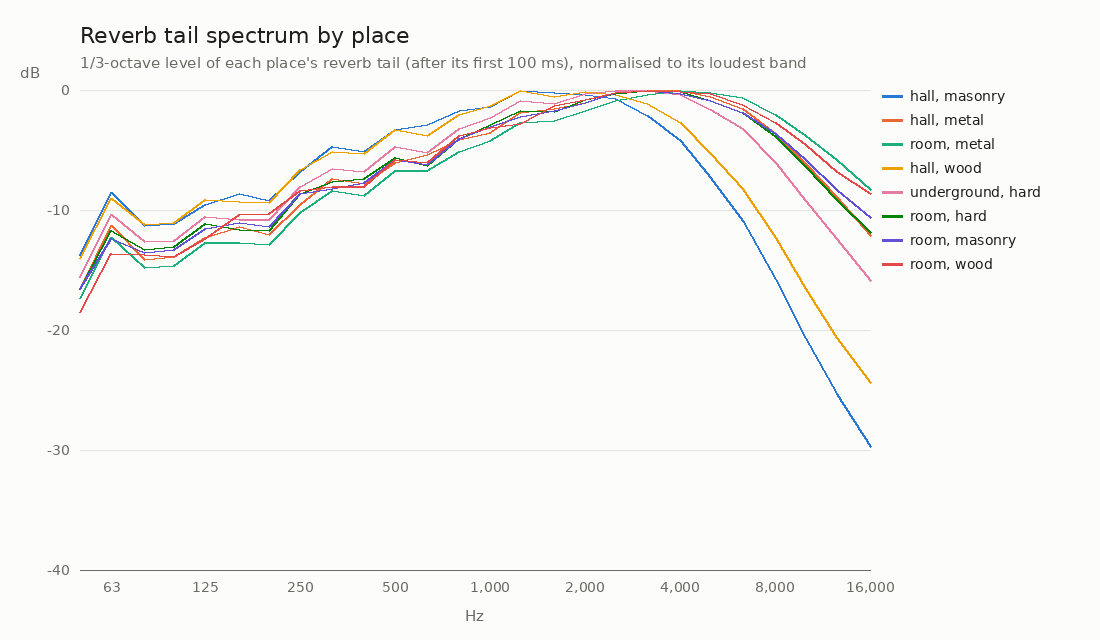
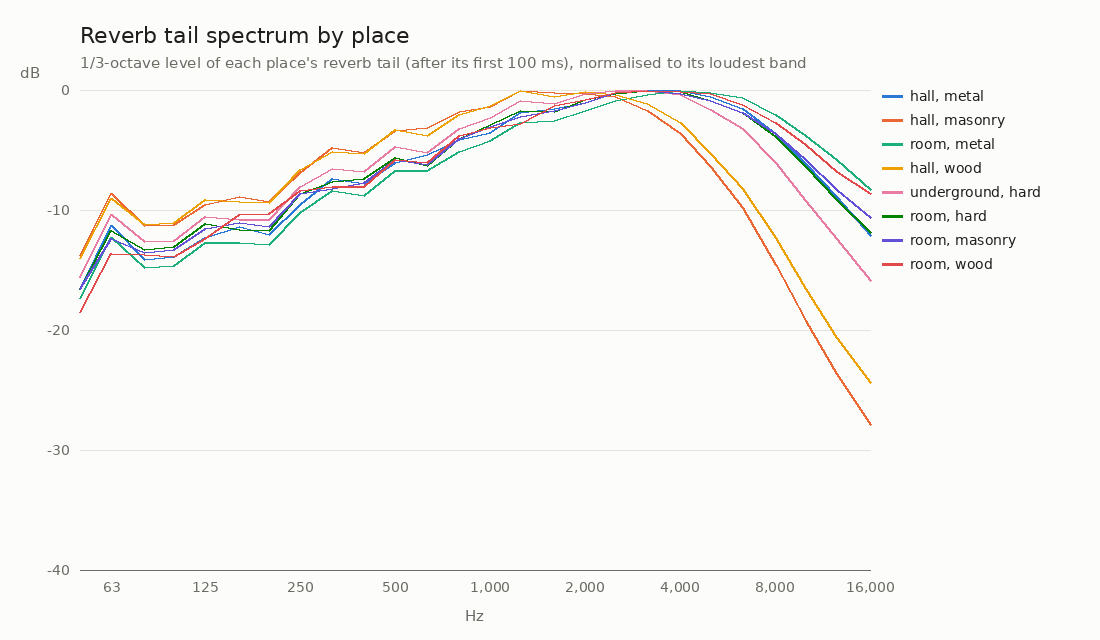
Acoustics: halls by their mean size, and the acoustics section in AUDIO.md
Above ground the long rays are ones that escaped through a window and
met the next building, so a shop was taken for a 3.5 s hall; only
underground does the longest way round count now. AUDIO.md documents
the probe, the reverb, occlusion, rain under roofs and the audit's
measurements, with a table of every kind of place on the three maps.

Claude-Session: https://claude.ai/code/session_01NrGcFyjBPLDhEAAYQKWyh8

diff --git a/src/acoustics.rs b/src/acoustics.rs
@@ -126,10 +126,12 @@ impl Space {
             Surface::Soft => (0.45, 0.8),
         };
         let per_m = 0.04 / absorption;
-        // Enclosed, a sound goes on down the corridor and back: the
-        // longest way round counts as well as the mean.
+        // Underground, a sound goes on down the corridor and back: the
+        // longest way round counts as well as the mean. (Above ground the
+        // long rays are ones that left through a window and met the next
+        // building.)
         let path = match self.kind {
-            SpaceKind::Hall | SpaceKind::Underground => self.size.max(0.5 * self.length),
+            SpaceKind::Underground => self.size.max(0.5 * self.length),
             _ => self.size,
         };
         let rt60 = (path * per_m * (0.4 + 0.6 * self.enclosed)).clamp(0.3, 3.5);
@@ -269,7 +271,7 @@ pub fn probe(
     let kind = if underground {
         SpaceKind::Underground
     } else if roof.is_some() && enclosed >= 0.5 {
-        if size > 8.0 || length > 25.0 {
+        if size > 8.0 {
             SpaceKind::Hall
         } else {
             SpaceKind::Room

diff --git a/docs/AUDIO.md b/docs/AUDIO.md
@@ -274,6 +274,99 @@ goes past 0.6. Index controllers barely register under about 0.1 or
 frame merge (strongest, longest), because the runtime plays only the
 last one it is given: a shot was being cut short by its own casing.
 
+## Acoustics
+
+Spaces sound like their size (`src/acoustics.rs`).
+
+**The space.** A few times a second, seventeen rays go out from your
+head: twelve round the horizon, four raised 40 degrees, one straight
+up. What they meet, and where, gives:
+- how enclosed the place is: the share of rays that meet something
+  within 40 m;
+- its size: the mean distance to what they meet; misses are openings;
+- its longest way round: a corridor's length, a hall's far end;
+- what its surfaces are made of, by majority: metal, bare concrete or
+  rock, plaster and brick, wood, soft (canvas, bark, earth);
+- the roof overhead.
+
+That makes it open, sheltered (an alley, a yard), a room, a hall, or
+underground (the dark sites).
+
+**The reverb.** One reverb bus (bevy_seedling's Freeverb, through its
+`effects` feature). Every placed sound sends to it at full level,
+except recordings with their own space baked in: the far-off shot's
+echo, the siren and the Surge's cracks send 30%. The space sets the
+bus:
+- **Decay** follows Sabine's formula. For a box the mean free path is
+  4V/S, so RT60 is about 0.04 × path / absorption. Absorption counts a
+  room's contents, not only its walls: metal 0.05, bare concrete 0.07,
+  plaster and brick 0.15, wood 0.2, soft 0.45. Open sides shorten it,
+  and tunnels count their longest way round. Above ground, long rays
+  have usually left through a window, so they don't count.
+- **Brightness:** metal rings, plaster and wood dull it.
+- **Wet level:** off in the open and in a forest (trunks and earth
+  don't echo), -24 to -18 dB sheltered, -16 to -12 in a room, -13 to
+  -9 in a hall, -11 to -8 underground.
+
+Changes ease over half a second, so walking through a door is a
+crossfade.
+
+| Place (2026-10, three maps) | Places | RT60 | Wet | A rifle shot's direct over reverb |
+| --- | --- | --- | --- | --- |
+| Field, forest | 10 | (dry) | off | dry |
+| Timber shed or cabin | 18 | 0.5 s (Freeverb's shortest) | -12 dB | +7 dB |
+| House, shop (plaster, brick) | 27 | 0.8 s | -12 dB | +6 dB |
+| Concrete room | 6 | 1.2 s | -12 dB | +5 dB |
+| Barn (wood hall) | 2 | 1.9 s | -9 dB | 0 dB |
+| Tin shed, depot (metal) | 9 | 2.3-3.5 s | -12 to -10 dB | +2 to -2 dB |
+| Factory hall (brick, Cinder Works) | 2 | 3.1 s | -11 dB | 0 dB |
+| Underground | 31 | 1.8 s | -8 dB | -1 dB |
+
+**Occlusion.** Each placed sound is checked as it starts, and loops
+every quarter second (at most 24 checks a frame), by the rule robots
+hear by (`robots::senses`):
+- **Through a wall or over a hill:** a sound carries `OCCLUDED`
+  (0.45) of its reach. Under inverse-distance falloff that is 6.9 dB
+  quieter, and it's muffled to 700 Hz.
+- **Round the edge of an open doorway** (both legs clear): 3 dB
+  quieter, muffled to 3 kHz.
+- **The ray test:** a path counts as blocked only if both the line from
+  just above the source and the line `HEARD_OVER` (1.2 m) above it are
+  cut. Robots test only the raised line, which through a doorway runs
+  into the lintel; they've been told.
+
+So a walker's footfall behind a wall is still heard, just duller, about
+where a robot would hear yours.
+
+**Rain under a roof.** Rain follows where you stand:
+- **In the open:** all of it.
+- **Under a roof:** quieter and duller. Tin and wood are 12-14 dB down
+  and below about 1 kHz; canvas loses less.
+- **Under a porch:** a little duller.
+- **Underground:** none.
+
+A roof's own drumming (`ambience/rain_tin`, `rain_wood`,
+`rain_canvas`) fades in when its set is in the bank. Those recordings
+aren't fetched yet: Freesound refused this container's requests (403)
+when they were sought.
+
+**Measuring it.** `cargo test acoustics::tests::every_place_is_probed_for_the_audit`
+probes every building and underground room on the three maps and writes
+`target/audio_audit/acoustics.json`. `audio_audit.py` then renders each
+kind of place's reverb with a port of the game's Freeverb
+(`scripts/audio_acoustics.py`) and checks it:
+- the decay against what the probe asked for, within 15%;
+- the direct-to-reverberant ratio of a shot and a footstep;
+- that a room's tail adds at most 3 LU to a shot's loudness, for
+  comfort;
+- that outdoors is dry.
+
+The first run found Freeverb's damping shortens every tail to 0.86 of
+its combs' decay, so `freeverb_room` asks for that much more
+(`FREEVERB_DAMPED`). Decays and tail spectra:
+[decay](shots/audio/acoustics_decay.png),
+[spectra](shots/audio/acoustics_spectra.png).
+
 ## Listening in the headset
 
 The numbers place each sound; only ears say whether it's the right one.
@@ -307,7 +400,11 @@ words ("too bright", "sounds like plastic", "late"):
     noticing you: is the whirr readable as "it saw me"?
 11. **A jam.** Does `gun.malfunction` read as "wrong", distinct from dry
     fire?
-12. **Overall.** Anything that made you flinch, or that you didn't hear
+12. **Rooms.** Walk from the field into a cabin, a tin shed and down
+    into a bunker, clapping or firing a shot in each: does each sound
+    its size? A walker behind a wall: muffled but readable? Rain from
+    under a roof?
+13. **Overall.** Anything that made you flinch, or that you didn't hear
     at all. The audit's "Loudest up close" list in `target/audio_audit/
     mix.txt` names the loudest suspects.
 
